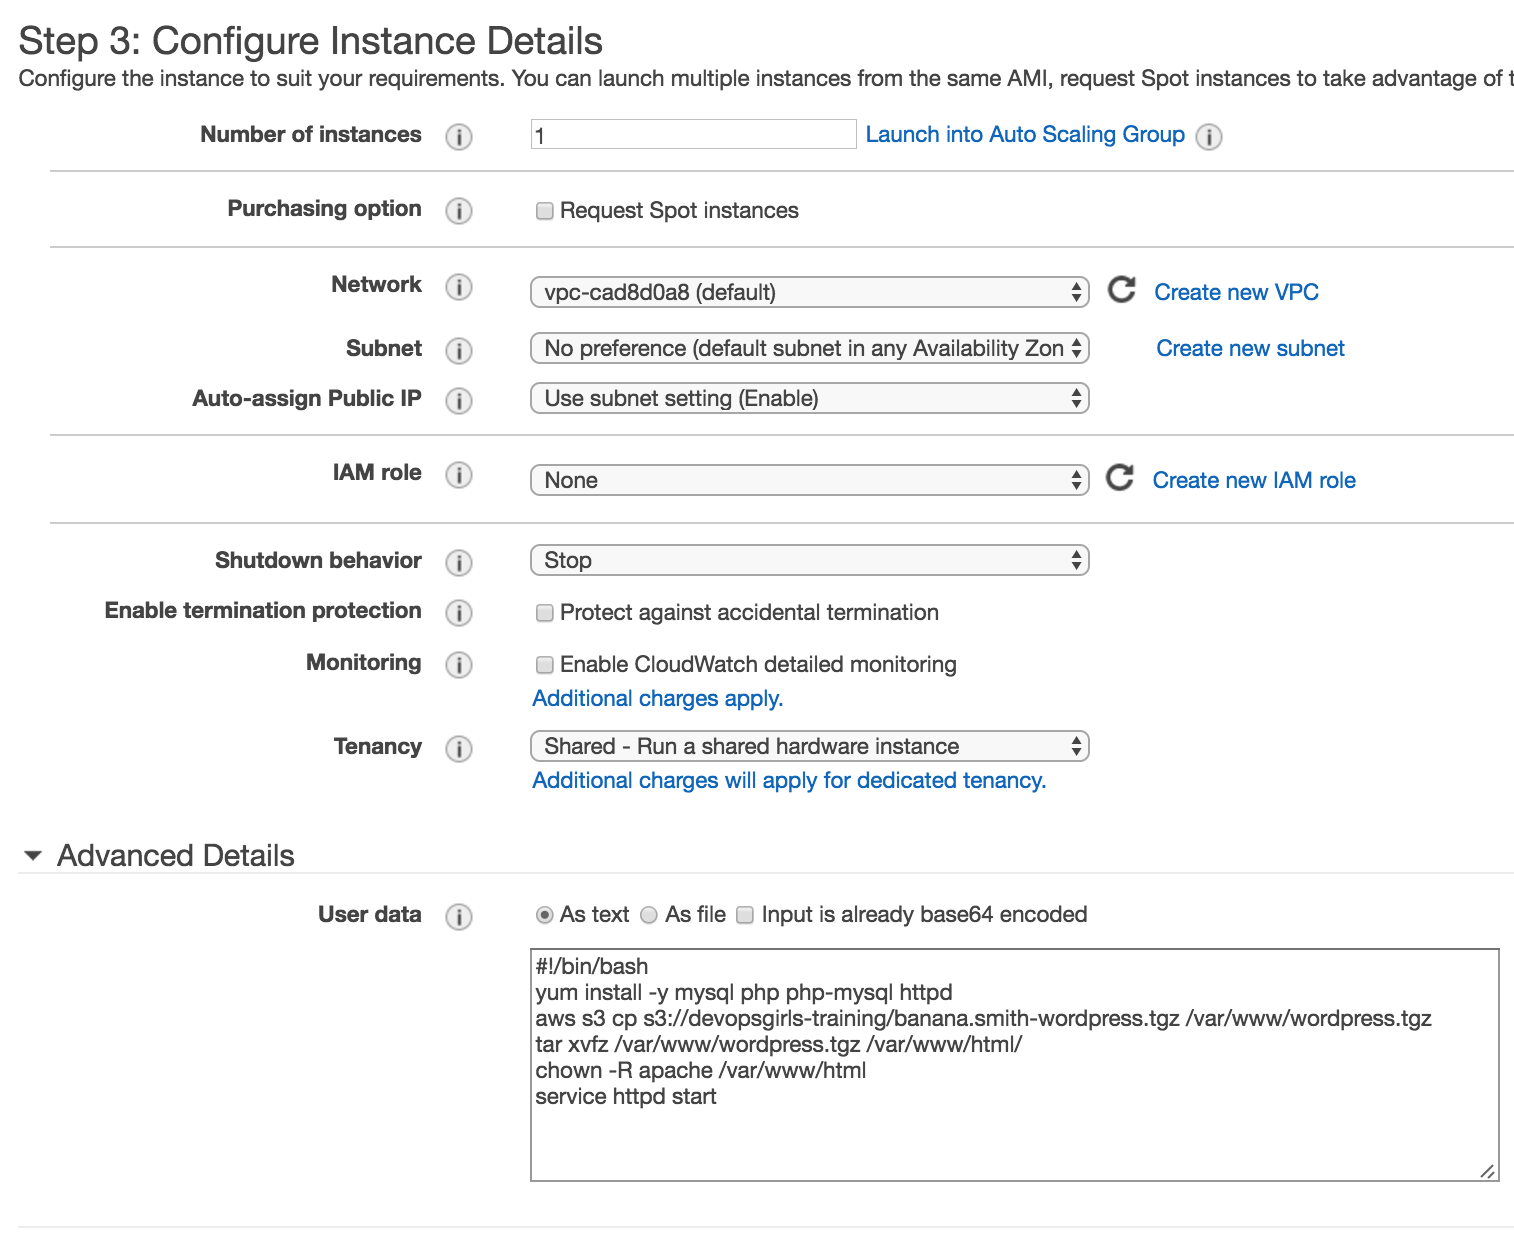
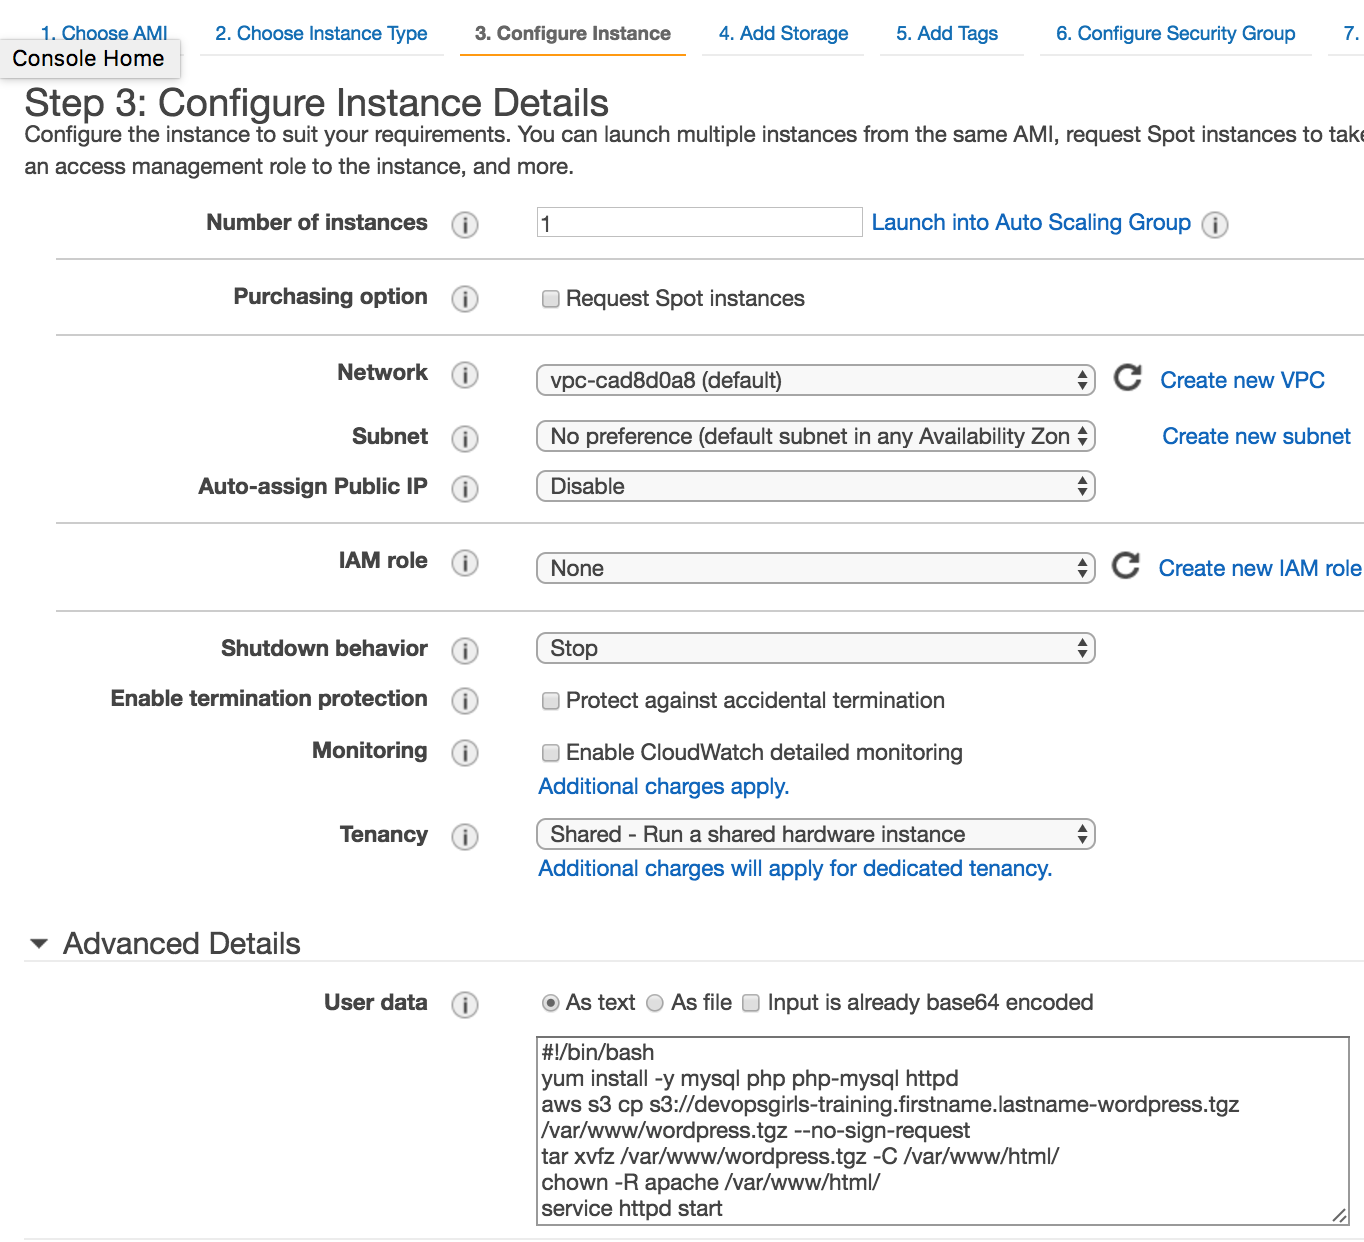
Add ASG image links

diff --git a/3-1-ASG.md b/3-1-ASG.md
@@ -18,8 +18,6 @@ In this practical session, we will:
 
  - Specify UserData as we did with EC2 earlier
 
- - Attach it to a limited InstanceProfile
-
  - Create an Autoscaling Group
 
  - Configure Autoscaling group so it attaches instances to the ELB
@@ -51,7 +49,7 @@ We will configure your Launch Configuration in the same way we configure your in
 
 ### 3.) Configure Launch Configuration details
 
-We'll then set your Launch Configuration details. Name your Launch Config *myname-launchconfig*, then select the "DevOpsGirls-S3-Wordpress" IAM Role.
+We'll then set your Launch Configuration details. Name your Launch Config *myname-launchconfig*.
 
 ![Image][3-1-3-iamrole]
 
@@ -179,19 +177,29 @@ Go to *Services > EC2 > Load Balancers*. Select the Load Balancer you created pr
 
 Copy the DNS name (similar to below), and paste it on another tab. You're effectively looking at any of your four instances.
 
+![Image][3-1-15-accesslb]
+
+
 ### 19.) Kill your instances
 
 Go to *Services > EC2 > Instances*. In the search box above, you should be able to type your name - allowing you to search any instances you tagged with your name.
 
 For all of your four instances, *Right-Click > Instance State > Terminate*.
 
+![Image][3-1-16-killec2]
+
+
 ### 20.) Check your ELB
 
 Check the browser tab where you pasted your Load Balancer's DNS name. It should be return with a problem shortly.
 
+
 ### 21.) Watch new instances get created
 
 In the AWS console, check under *Services > EC2 > Instances* every minute or so. What you should see is that eventually, new instances with your name should be created.
+
+![Image][3-1-17-instancereplace]
+
 
 
 ## Testing your Autoscaling Group: Resizing the number of instances
@@ -203,6 +211,9 @@ Now that we know that your instances are getting automatically replaced, we can 
 Go to *Services > EC2 > Autoscaling Group*. Look for the Autoscaling Group you created.
 
 Once you highlight the Autoscaling Group you created, go to the bottom panel and click on *Edit*. Set your *Desired Instances* to 3 and your *Max Instances* to 3. Click on *Save*.
+
+![Image][3-1-18-setasg]
+
 
 ### 23.) Watch new instances get created
 
@@ -217,6 +228,10 @@ Congratulations! You have an automated scaling service!
 [3-1-12-tags]: https://raw.githubusercontent.com/DevOpsGirls/devopsgirls-bootcamp/master/images/3-1-ASG/3-1-12-tags.png
 [3-1-13-review]: https://raw.githubusercontent.com/DevOpsGirls/devopsgirls-bootcamp/master/images/3-1-ASG/3-1-13-review.png
 [3-1-14-elbinstances]: https://raw.githubusercontent.com/DevOpsGirls/devopsgirls-bootcamp/master/images/3-1-ASG/3-1-14-elbinstances.png
+[3-1-15-accesslb]: https://raw.githubusercontent.com/DevOpsGirls/devopsgirls-bootcamp/master/images/3-1-ASG/3-1-15-accesslb.png
+[3-1-16-killec2]: https://raw.githubusercontent.com/DevOpsGirls/devopsgirls-bootcamp/master/images/3-1-ASG/3-1-16-killec2.png
+[3-1-17-instancereplace]: https://raw.githubusercontent.com/DevOpsGirls/devopsgirls-bootcamp/master/images/3-1-ASG/3-1-17-instancereplace.png
+[3-1-18-setasg]: https://raw.githubusercontent.com/DevOpsGirls/devopsgirls-bootcamp/master/images/3-1-ASG/3-1-18-setasg.png
 [3-1-2-instancetype]: https://raw.githubusercontent.com/DevOpsGirls/devopsgirls-bootcamp/master/images/3-1-ASG/3-1-2-instancetype.png
 [3-1-3-iamrole]: https://raw.githubusercontent.com/DevOpsGirls/devopsgirls-bootcamp/master/images/3-1-ASG/3-1-3-iamrole.png
 [3-1-4-userdata]: https://raw.githubusercontent.com/DevOpsGirls/devopsgirls-bootcamp/master/images/3-1-ASG/3-1-4-userdata.png

diff --git a/2-1-ELB.md b/2-1-ELB.md
@@ -194,7 +194,7 @@ On the *Advanced Details* tab of S3, paste the following into the *User Data* bo
 ```
 #!/bin/bash
 yum install -y mysql php php-mysql httpd
-aws s3 cp s3://devopsgirls-training.firstname.lastname-wordpress.tgz /var/www/wordpress.tgz
+aws s3 cp s3://devopsgirls-training.firstname.lastname-wordpress.tgz /var/www/wordpress.tgz --no-sign-request
 tar xvfz /var/www/wordpress.tgz -C /var/www/html/
 chown -R apache /var/www/html/
 service httpd start
